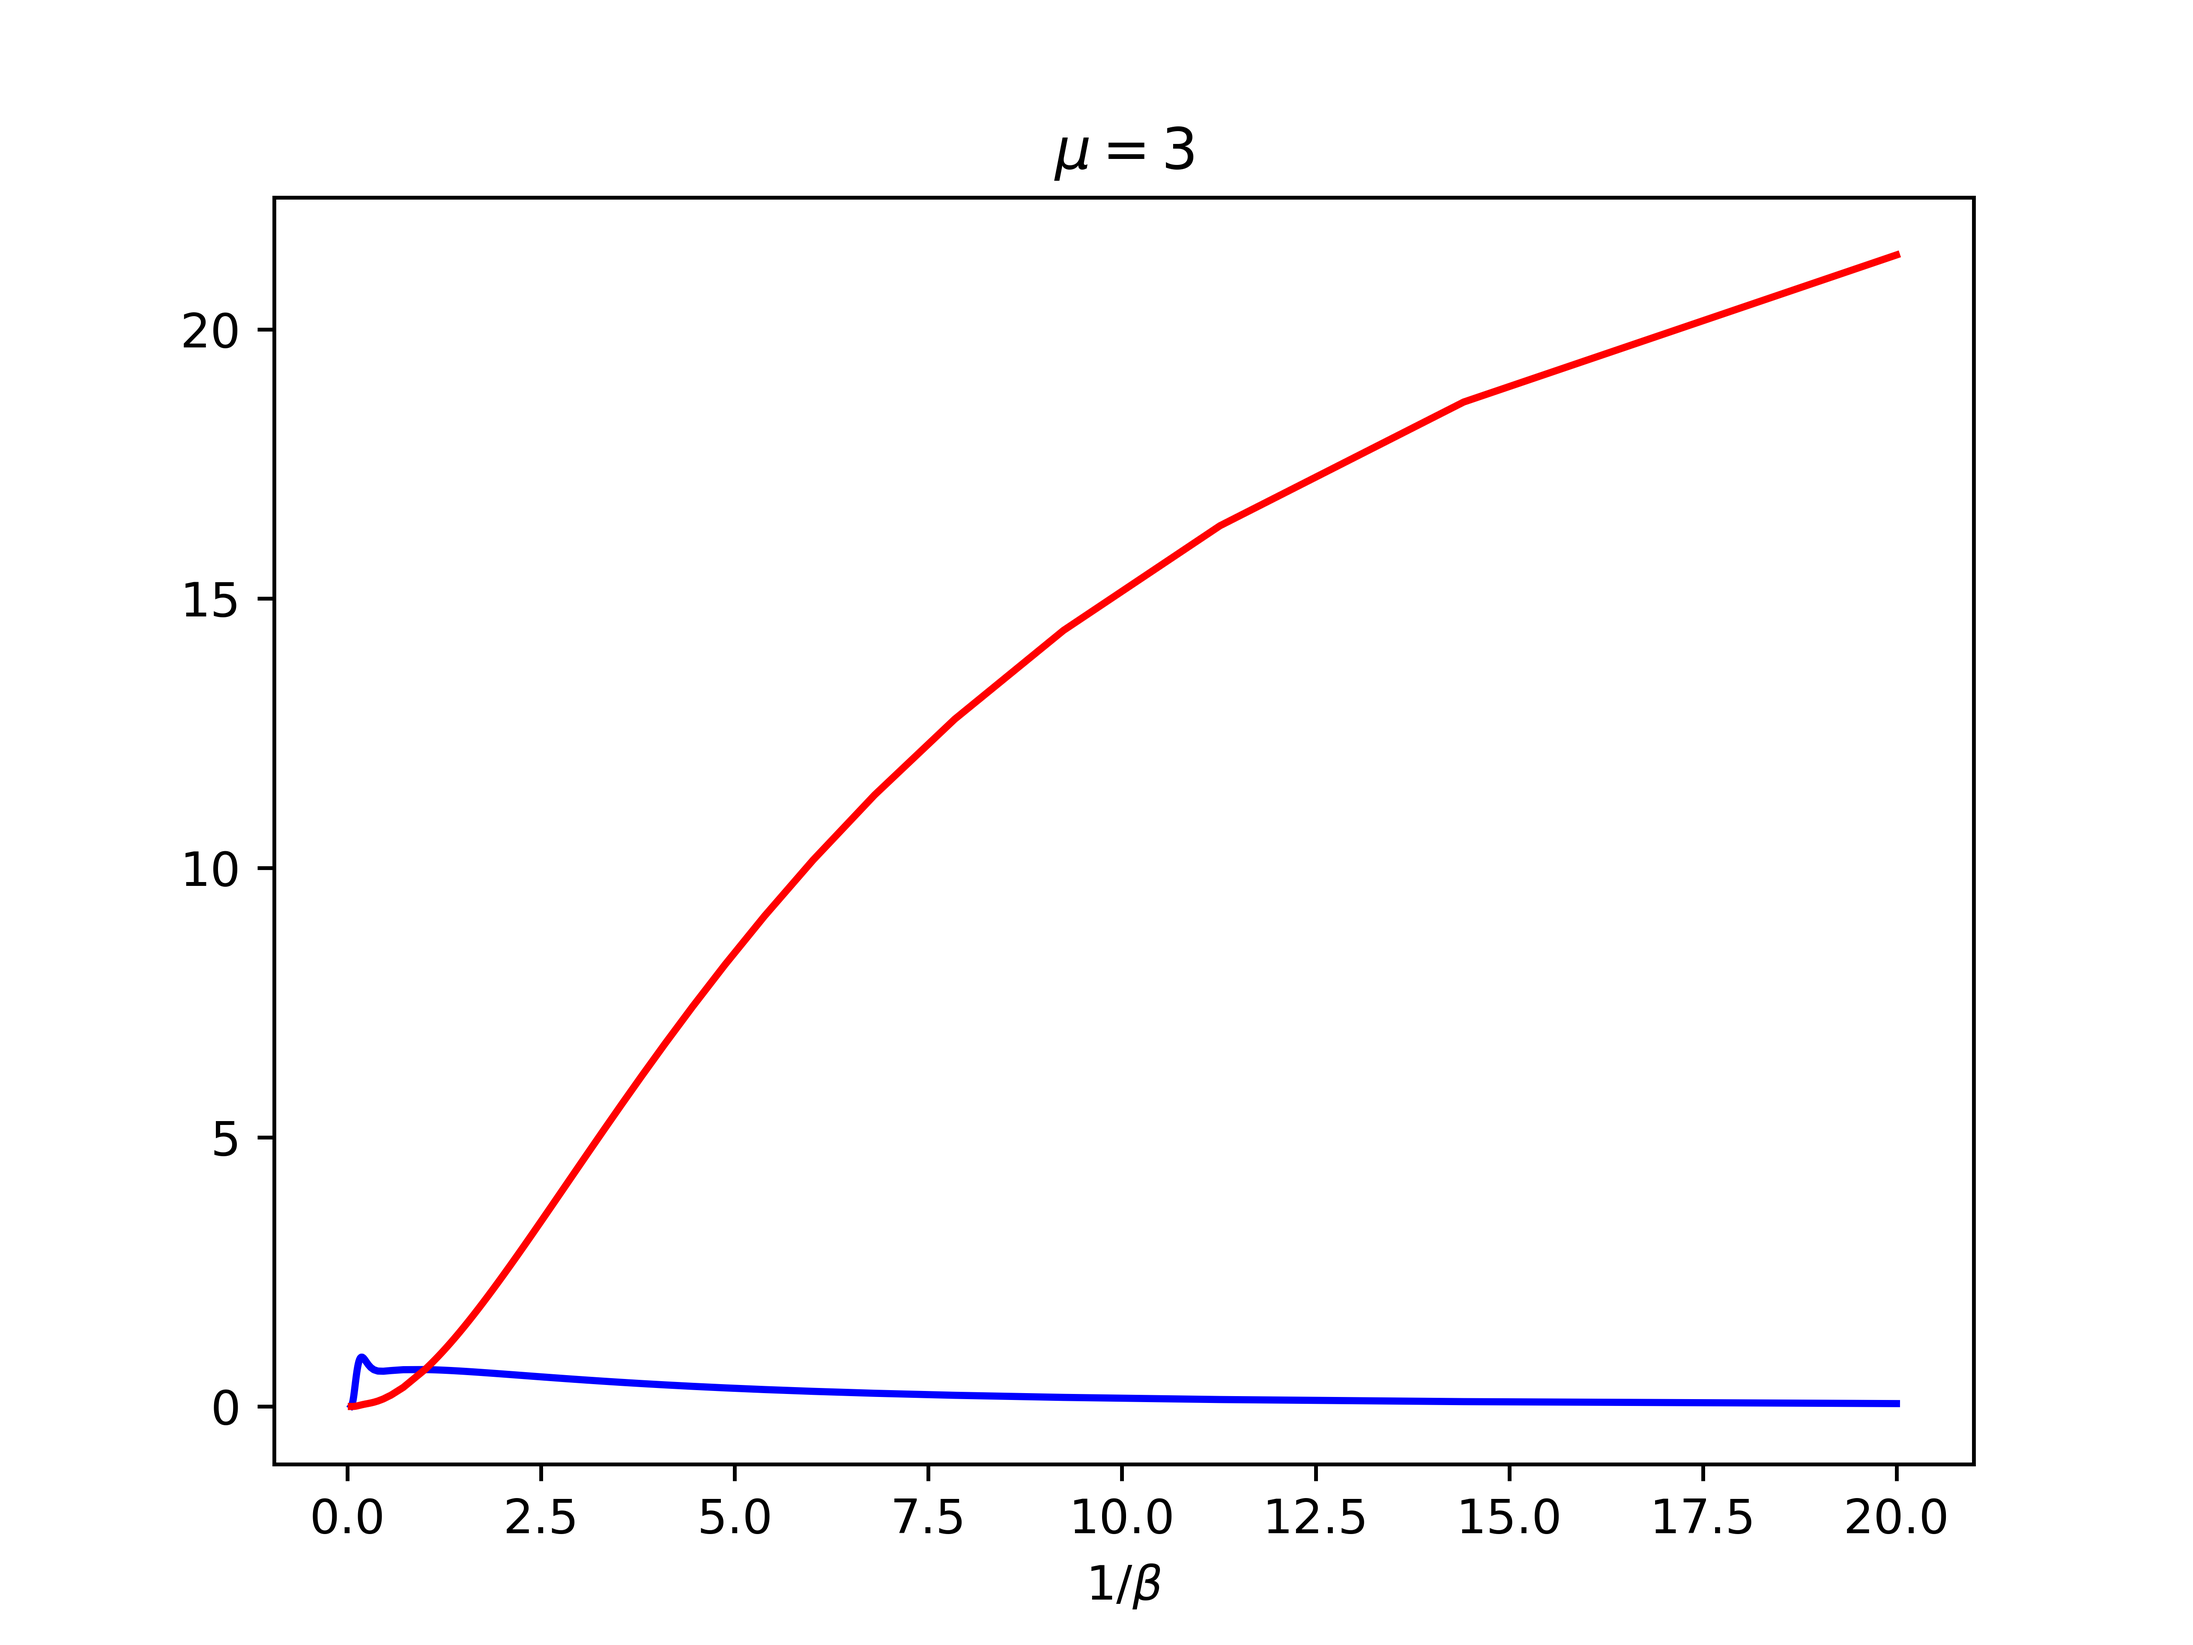
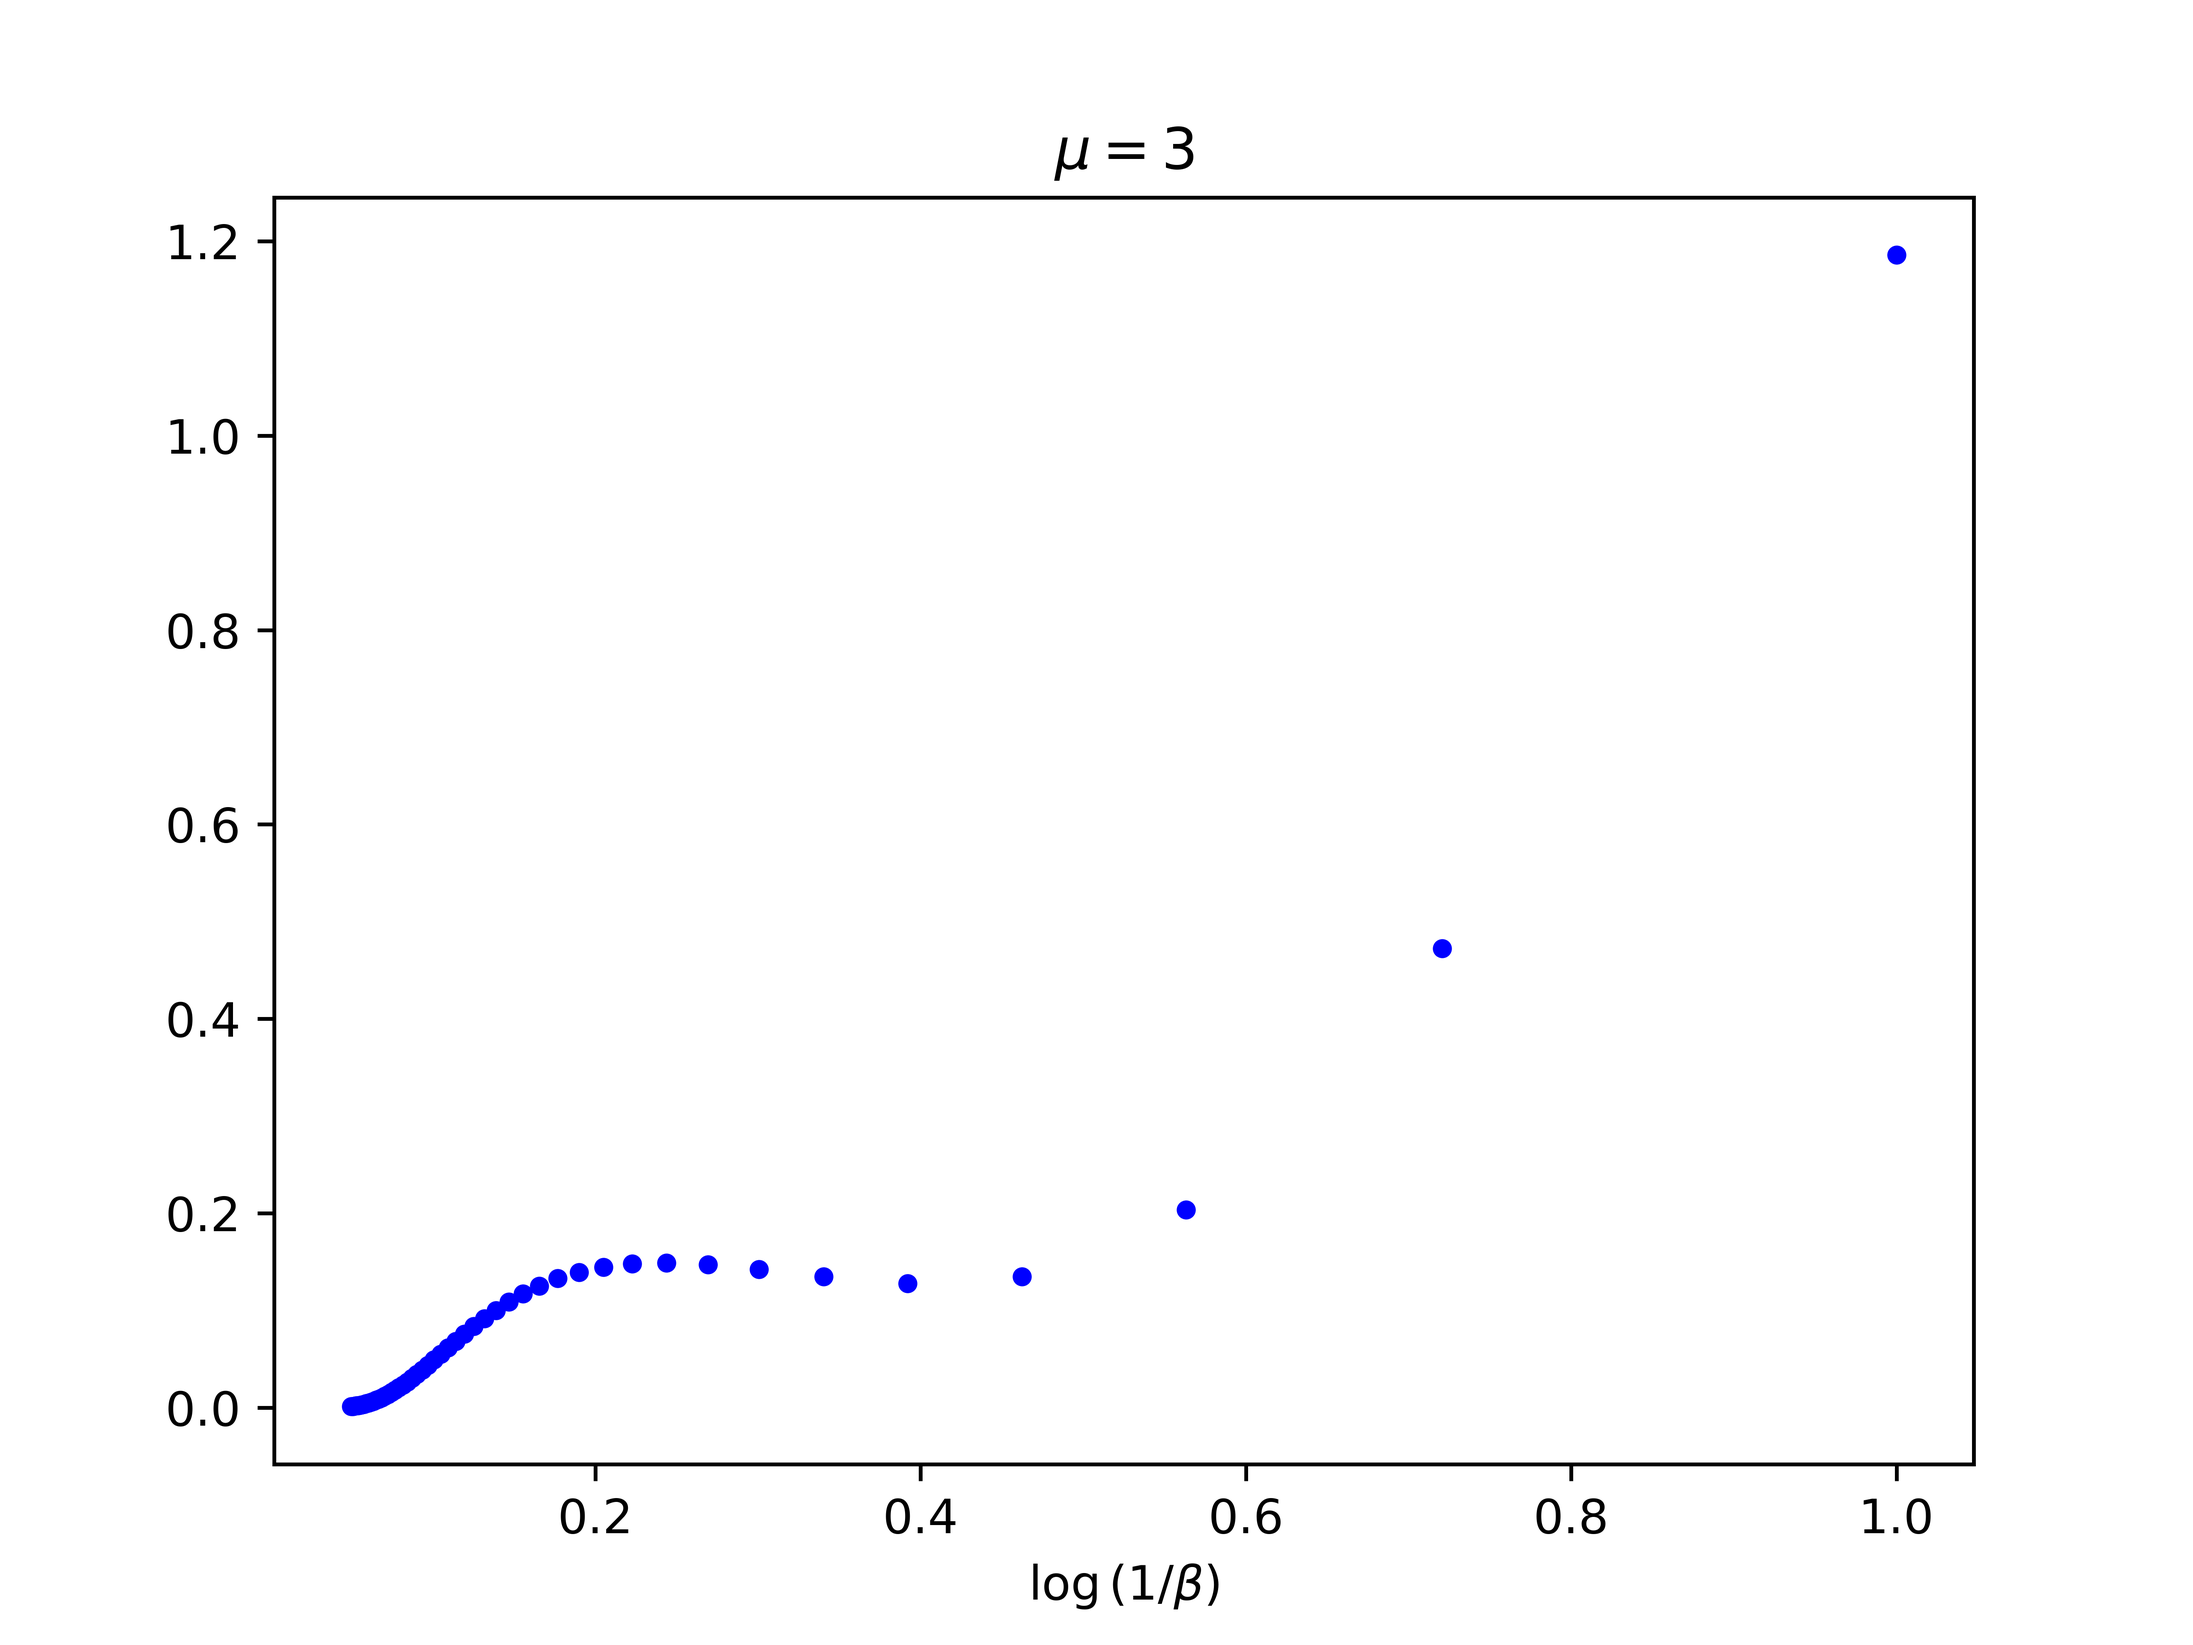
weekend work/minor

diff --git a/utils/chain_sections.py b/utils/chain_sections.py
@@ -10,6 +10,8 @@ import argparse
 from itertools import product,combinations
 from math import comb,log10
 from collections import Counter
+from matplotlib.colors import ListedColormap
+from matplotlib.colors import BoundaryNorm
 '''
 ~~~~~~~~~~~~~~~~~~~~~~~~~~~~~~~~~~~~~~~~~~~~~~~~~~~~~~~~~~~~
 CODE THAT PERFORMS ED FOR AN LXL THREE-VALLEY HUBBARD SYSTEM
@@ -894,8 +896,9 @@ class chains():
         calculates n.n. repulsion for L=2 where all sites are nn with all others
         '''
         if length != 2:
-            print('not implemented')
-            quit()
+            print('n.n. interaction not implemented for L >2')
+            return 0
+            #quit()
         count = 0
         for i,occ1 in enumerate(occupations):
             for j,occ2 in enumerate(occupations):
@@ -1365,19 +1368,23 @@ def test15():
     '''
     check Hamiltonian for 8x8 matrix
     '''
+    #L = 3
     L = 2
     t = 2
-    U = 2*0
-    V = 1
+    U = 0.25
+    V = 0.1
     mu = 0
     #if binary states take form (spin1,spin2)*number of chains:
-    loc = [1,3,1,3,2,4,2,4,1,2,1,2,3,4,3,4,1,4,1,4,2,3,2,3]
+    loc = [1,3,1,3,2,4,2,4,1,2,1,2,3,4,3,4,1,4,1,4,2,3,2,3] # L= 2
+    #loc = [1,4,7,1,4,7,2,5,8,2,5,8,3,6,9,2,6,9,1,2,3,1,2,3,4,5,6,4,5,6,7,8,9,7,8,9,2,4,9,2,4,9,3,5,7,3,5,7,6,8,1,6,8,1] #L = 3
     #if binary states take form (chain1,chain2,...,chain_3L)*number of spins:
     #loc = [1,3,2,4,1,2,3,4,1,4,2,3]*2
     #c = ((1,1,1,1,1,1),(1,1,1,1,1,1))
     c = ((1,0,1,0,0,0),(0,0,0,0,0,0))
     c = ((0,1,1,1,0,0),(0,1,1,0,1,2))
     c = ((1,0,1,0,0,1),(0,0,0,0,0,0))
+    #c = ((1,0,0,0,0,0),(1,0,0,0,0,0))
+    #c = ((2,0,0,0,3,1,0,0,0),(0,0,2,0,0,0,0,0,0))#L = 3
     #print(c)
     #print(T(c,1,0,2))
     #print(T(c,0,1,2))
@@ -1392,9 +1399,22 @@ def test15():
     #e= np.linalg.eigvalsh(H)
     #print(e)
     #quit()
+    # Define the colormap: white for 0, and distinct colors for other values
+    colors = ['red','white', 'blue', 'green']  # Customize as needed
+    cmap = ListedColormap(colors)
+    bounds = [-t, 0, 3*U+3*V, 5*U+2*V]  # Boundaries for the colormap
+
+    # Create a normalization for the colormap
+    norm = BoundaryNorm(bounds, cmap.N)
+
+    # Plot the Hamiltonian matrix
+    plt.figure(figsize=(8, 8))
     plt.imshow(H)
-    plt.colorbar()
-    plt.savefig('temp.png')
+    #plt.imshow(H, cmap=cmap, norm=norm)
+    colorbar = plt.colorbar(ticks=[-t, 0, 3*U+3*V, 5*U+2*V])
+    colorbar.ax.set_yticklabels(["-t", "0", "3U+3V", "5U+2V"],fontsize=12)
+    plt.title('$H_{mn}$ for config $101001000000$')
+    plt.savefig('Hamiltonian.png')
     return
 def test16():
     '''tests that all symmetry related configs to a random config have same spectrum'''

diff --git a/utils/toy_model.py b/utils/toy_model.py
@@ -128,11 +128,12 @@ if __name__ == "__main__":
     '''
     doing static susceptibilities
     '''
-    Occ = 12 #S=11/2
-    Sites = 1 #number of sites
-    U = 1
-    mu = 3 #leads t <N> =3
-    betas = np.array(list(np.linspace(0.05,1,num=50))+list(np.linspace(1,20,num=50)))
+    Occ = 7 #S=11/2
+    Sites = 2 #number of sites
+    U = 5
+    mu = 3 
+    betas = np.linspace(1,20,num=50)#leads t <N> =3
+    #betas = #np.array(list(np.linspace(0.01,1,num=50))+list(np.linspace(1,20,num=50)))
     Energies = np.zeros(len(betas))
     Energies_sq = np.zeros(len(betas))
     Numbers = np.zeros(len(betas))
@@ -149,9 +150,9 @@ if __name__ == "__main__":
         Energies_sq[i] = E_sq_avgs/Z
         Numbers[i] = Navgs/Z
         Numbers_sq[i] = N_sq_avgs/Z
-    plt.plot(1/betas,(betas**2) * (Energies_sq - Energies**2) ,c='b')
+    plt.plot(1/betas,(betas**2) * (Energies_sq - Energies**2) ,'.',c='b')
     #plt.plot(np.log(1/betas),(betas**2) * (Numbers_sq - Numbers**2) ,c='r')
-    plt.xlabel('$1/\\beta$')
+    plt.xlabel('$\log{(1/\\beta)}$')
     #plt.xticks([1,3,5,7,9])
     #plt.ylabel('$\langle N \\rangle$')
     #plt.legend()
